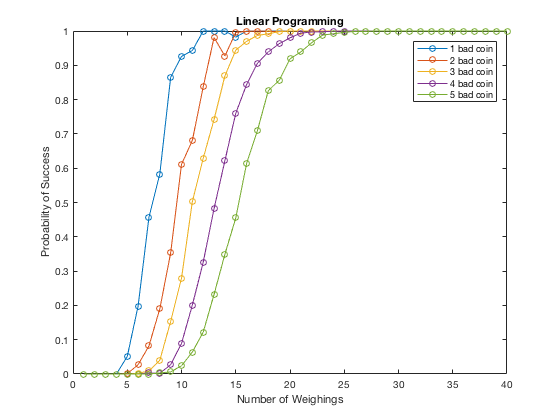
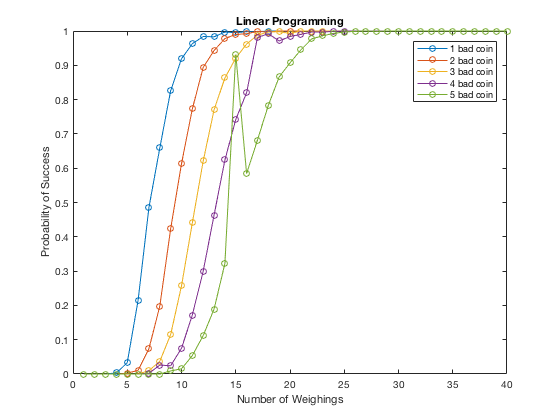
fix real x change sensing matrix

Changed region(s): [[0.1821, 0.0619, 0.6071, 0.8976], [0.2125, 0.7429, 0.2429, 0.7738]]

diff --git a/README.md b/README.md
@@ -2,13 +2,13 @@
 Use linear programming and orthogonal matching pursuit solve bad coins problem.
 
 ## Linear Programming
-Elapsed time is 2337.948377 seconds (around 39 mins).
+Elapsed time is 2260.553186 seconds (around 39 mins).
 <p align="center">
   <img src="linear_programming.png">
 </p>
 
 ## Orthogonal Matching Pursuit
-Elapsed time is 22.306648 seconds.
+Elapsed time is 59.631692 seconds.
 <p align="center">
   <img src="orthogonal_matching_pursuit.png">
 </p>
